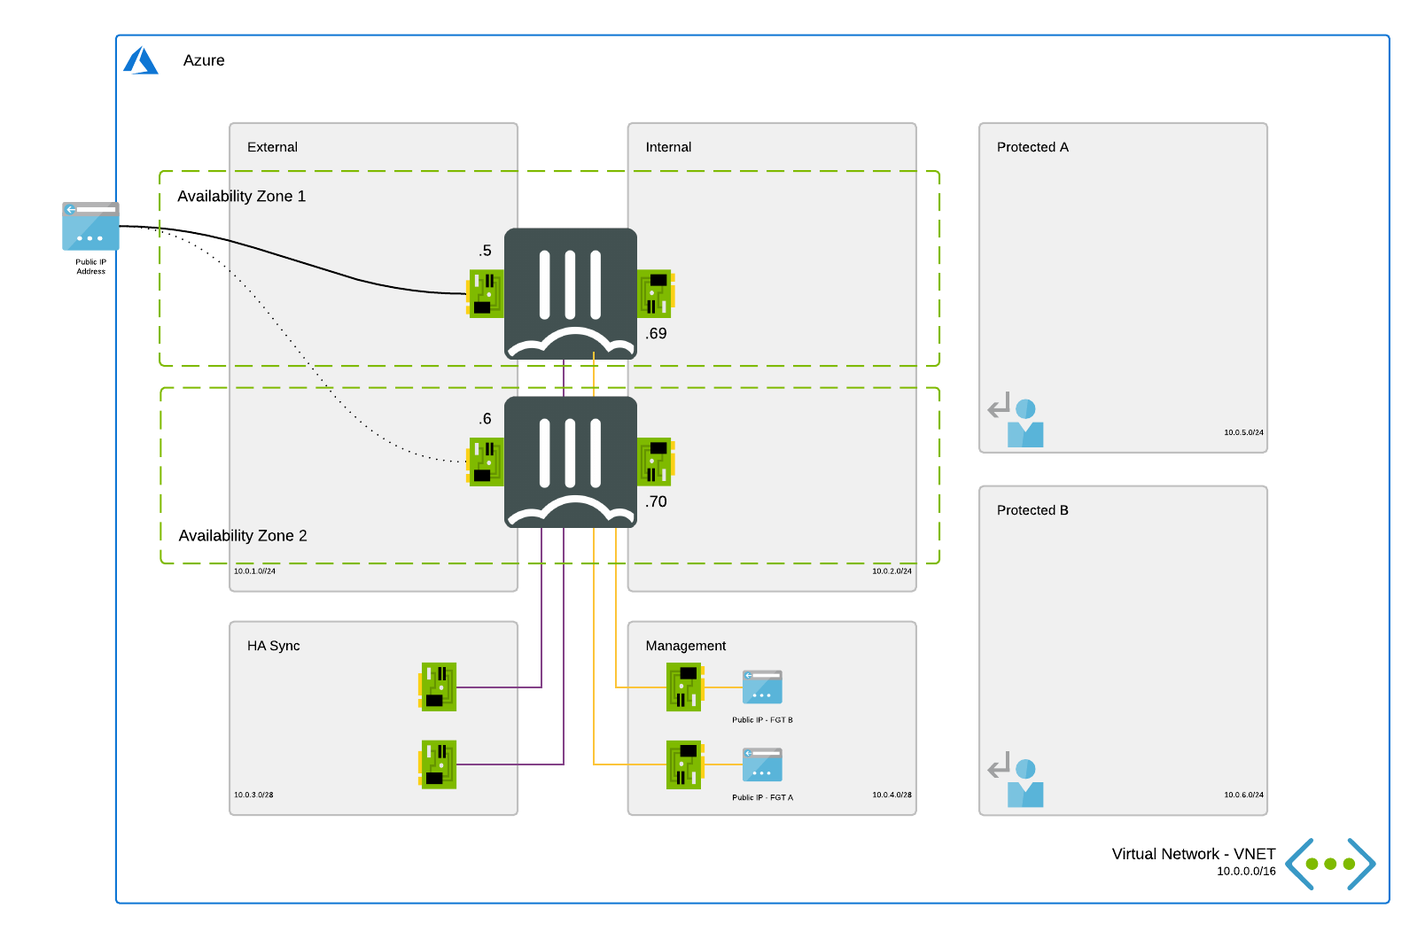
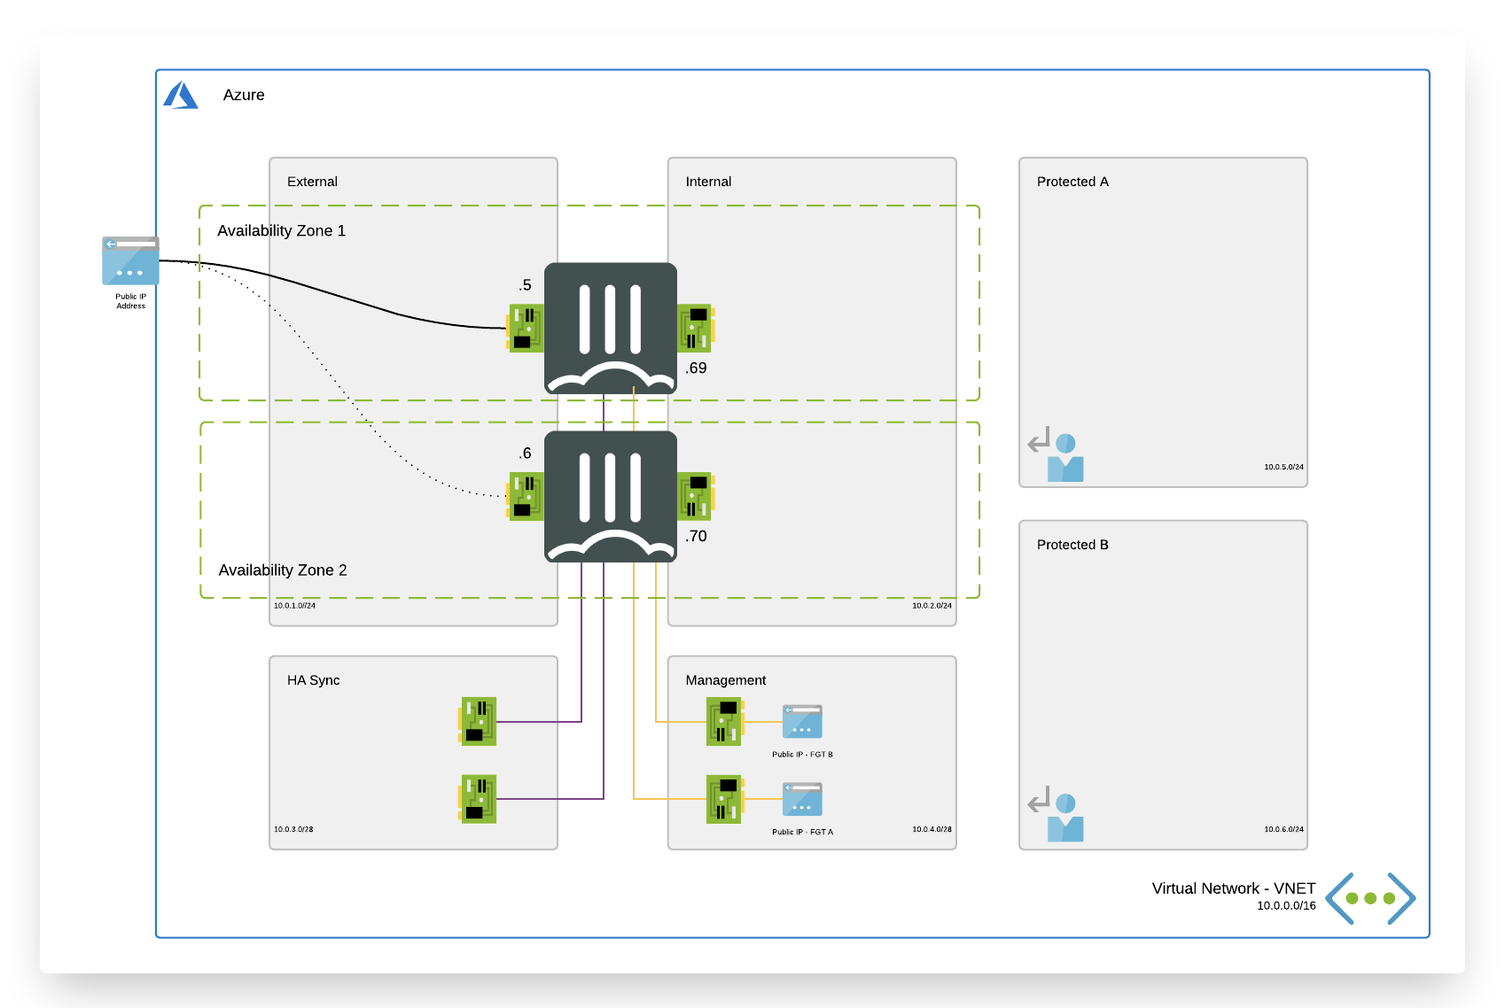
Update documentation and images Update one liner deployments statements Network diagrams remove transparent background Add information about password complexity Add information about accept terms Fixed minor wording in documentation

diff --git a/FortiGate/A-Single-VM/README.md b/FortiGate/A-Single-VM/README.md
@@ -41,7 +41,7 @@ For the deployment, you can use the Azure Portal, Azure CLI, Powershell or Azure
 ### Azure CLI
 To fast track the deployment, use the Azure Cloud Shell. The Azure Cloud Shell is an in-browser CLI that contains Terraform and other tools for deployment into Microsoft Azure. It is accessible via the Azure Portal or directly at [https://shell.azure.com/](https://shell.azure.com). You can copy and paste the below one-liner to get started with your deployment.
 
-`cd ~/clouddrive/ && wget -qO- https://github.com/fortinet/azure-templates/archive/main.zip | jar x && cd ~/clouddrive/azure-templates-main/FortiGate/A-Single-VM/ && ./deploy.sh`
+`cd ~/clouddrive/ && wget -qO- https://github.com/fortinet/azure-templates/archive/main.tar.gz | tar zxf - && cd ~/clouddrive/azure-templates-main/FortiGate/A-Single-VM/ && ./deploy.sh`
 
 ![Azure Cloud Shell](images/azure-cloud-shell.png)
 
@@ -49,14 +49,22 @@ After deployment, you will be shown the IP addresses of all deployed components.
 
 ## Requirements and limitations
 
-The Azure ARM template deployment deploys different resources and is required to have the access rights and quota in your Microsoft Azure subscription to deploy the resources.
-
-### Licenses
+The ARM template deploys different resources and it is required to have the access rights and quota in your Microsoft Azure subscription to deploy the resources.
 
 - The template will deploy Standard F2s VMs for this architecture. Other VM instances are supported as well with a minimum of 2 NICs. A list can be found [here](https://docs.fortinet.com/document/fortigate/6.4.0/azure-cookbook/562841/instance-type-support)
 - Licenses for Fortigate
-  - BYOL: A demo license can be made available via your Fortinet partner or on our website. These can be injected during deployment or added after deployment.
+  - BYOL: A demo license can be made available via your Fortinet partner or on our website. These can be injected during deployment or added after deployment. Purchased licenses need to be registered on the [Fortinet support site] (http://support.fortinet.com). Download the .lic file after registration. Note, these files may not work until 30 minutes after it's initial creation.
   - PAYG or OnDemand: These licenses are automatically generated during the deployment of the FortiGate systems.
+- The password provided during deployment must need password complexity rules from Microsoft Azure:
+  - It must be 12 characters or longer
+  - It needs to contain characters from at least 3 of the following groups: uppercase characters, lowercase characters, numbers, and special characters excluding '\' or '-'
+- The terms for the FortiGate PAYG or BYOL image in the Azure Marketplace needs to be accepted once before usage. This is done automatically during deployment via the Azure Portal. For the Azure CLI the commands below need to be run before the first deployment in a subscription.
+  - BYOL
+`az vm image accept-terms --publisher fortinet --offer fortinet_fortigate-vm_v5 --plan fortinet_fg-vm`
+  - PAYG
+`az vm image accept-terms --publisher fortinet --offer fortinet_fortigate-vm_v5 --plan fortinet_fg-vm_payg_20190624`
+
+The Azure ARM template deployment deploys different resources and is required to have the access rights and quota in your Microsoft Azure subscription to deploy the resources.
 
 ### Fabric Connector
 The FortiGate-VM uses [Managed Identities](https://docs.microsoft.com/en-us/azure/active-directory/managed-identities-azure-resources/) for the SDN Fabric Connector. A SDN Fabric Connector is created automatically during deployment. After deployment, it is required apply the 'Reader' role to the Azure Subscription you want to resolve Azure Resources from. More information can be found on the [Fortinet Documentation Libary](https://docs.fortinet.com/vm/azure/fortigate/6.4/azure-cookbook/6.4.0/236610/creating-a-fabric-connector-using-a-managed-identity).

diff --git a/FortiGate/Active-Active-ELB-ILB/README.md b/FortiGate/Active-Active-ELB-ILB/README.md
@@ -48,7 +48,7 @@ To deploy via Azure Cloud Shell you can connect via the Azure Portal or directly
 - Login into the Azure Cloud Shell
 - Run the following command in the Azure Cloud:
 
-`cd ~/clouddrive/ && wget -qO- https://github.com/fortinet/azure-templates/archive/main.zip | jar x && cd ~/clouddrive/azure-templates/FortiGate/Active-Active-ELB-ILB/ && ./deploy.sh`
+`cd ~/clouddrive/ && wget -qO- https://github.com/fortinet/azure-templates/archive/main.tar.gz | tar zxf - && cd ~/clouddrive/azure-templates/FortiGate/Active-Active-ELB-ILB/ && ./deploy.sh`
 
 - The script will ask you a few questions to bootstrap a full deployment.
 
@@ -58,14 +58,20 @@ After deployment you will be shown the IP address of all deployed components. Yo
 
 ## Requirements and limitations
 
-The Terraform template deployment deploys different resources and is required to have the access rights and quota in your Microsoft Azure subscription to deploy the resources.
+The ARM template deploys different resources and it is required to have the access rights and quota in your Microsoft Azure subscription to deploy the resources.
 
-### Licenses
-
-- The template will deploy Standard F4s VMs to deploy the required active/active setup. Other VM instances are supported as well with a minimum of 2 NICs. A list can be found [here](https://docs.fortinet.com/document/fortigate/6.4.0/azure-cookbook/562841/instance-type-support)
+- The template will deploy Standard F2s VMs for this architecture. Other VM instances are supported as well with a minimum of 2 NICs. A list can be found [here](https://docs.fortinet.com/document/fortigate/6.4.0/azure-cookbook/562841/instance-type-support)
 - Licenses for Fortigate
-  - BYOL: Demo license can be made available via your Fortinet partner or on our website. These can be injected during deployment or added after deployment.
+  - BYOL: A demo license can be made available via your Fortinet partner or on our website. These can be injected during deployment or added after deployment. Purchased licenses need to be registered on the [Fortinet support site] (http://support.fortinet.com). Download the .lic file after registration. Note, these files may not work until 30 minutes after it's initial creation.
   - PAYG or OnDemand: These licenses are automatically generated during the deployment of the FortiGate systems.
+- The password provided during deployment must need password complexity rules from Microsoft Azure:
+  - It must be 12 characters or longer
+  - It needs to contain characters from at least 3 of the following groups: uppercase characters, lowercase characters, numbers, and special characters excluding '\' or '-'
+- The terms for the FortiGate PAYG or BYOL image in the Azure Marketplace needs to be accepted once before usage. This is done automatically during deployment via the Azure Portal. For the Azure CLI the commands below need to be run before the first deployment in a subscription.
+  - BYOL:
+`az vm image accept-terms --publisher fortinet --offer fortinet_fortigate-vm_v5 --plan fortinet_fg-vm`
+  - PAYG:
+`az vm image accept-terms --publisher fortinet --offer fortinet_fortigate-vm_v5 --plan fortinet_fg-vm_payg_20190624`
 
 ### Fabric Connector
 The FortiGate-VM uses [Managed Identities](https://docs.microsoft.com/en-us/azure/active-directory/managed-identities-azure-resources/) for the SDN Fabric Connector. A SDN Fabric Connector is created automatically during deployment. After deployment, it is required apply the 'Reader' role to the Azure Subscription you want to resolve Azure Resources from. More information can be found on the [Fortinet Documentation Libary](https://docs.fortinet.com/vm/azure/fortigate/6.4/azure-cookbook/6.4.0/236610/creating-a-fabric-connector-using-a-managed-identity).

diff --git a/FortiGate/Active-Passive-SDN/README.md b/FortiGate/Active-Passive-SDN/README.md
@@ -46,7 +46,7 @@ To deploy via Azure Cloud Shell you can connect via the Azure Portal or directly
 - Login into the Azure Cloud Shell
 - Run the following command in the Azure Cloud:
 
-`cd ~/clouddrive/ && wget -qO- https://github.com/fortinet/azure-templates/archive/main.zip | jar x && cd ~/clouddrive/azure-templates-main/FortiGate/Active-Passive-SDN/ && ./deploy.sh`
+`cd ~/clouddrive/ && wget -qO- https://github.com/fortinet/azure-templates/archive/main.tar.gz | tar zxf - && cd ~/clouddrive/azure-templates-main/FortiGate/Active-Passive-SDN/ && ./deploy.sh`
 
 - The script will ask you a few questions to bootstrap a full deployment.
 
@@ -56,12 +56,20 @@ After deployment you will be shown the IP address of all deployed components. Bo
 
 # Requirements and limitations
 
-The ARM template deploy different resource and it is required to have the access rights and quota in your Microsoft Azure subscription to deploy the resources.
+The ARM template deploys different resources and it is required to have the access rights and quota in your Microsoft Azure subscription to deploy the resources.
 
-- The template will deploy Standard F4s VMs for this architecture. Other VM instances are supported as well with a minimum of 2 NICs. A list can be found [here](https://docs.fortinet.com/document/fortigate/6.2.0/azure-cookbook/562841/instance-type-support)
+- The template will deploy Standard F4s VMs for this architecture. Other VM instances are supported as well with a minimum of 4 NICs. A list can be found [here](https://docs.fortinet.com/document/fortigate/6.4.0/azure-cookbook/562841/instance-type-support)
 - Licenses for Fortigate
   - BYOL: A demo license can be made available via your Fortinet partner or on our website. These can be injected during deployment or added after deployment. Purchased licenses need to be registered on the [Fortinet support site] (http://support.fortinet.com). Download the .lic file after registration. Note, these files may not work until 30 minutes after it's initial creation.
   - PAYG or OnDemand: These licenses are automatically generated during the deployment of the FortiGate systems.
+- The password provided during deployment must need password complexity rules from Microsoft Azure:
+  - It must be 12 characters or longer
+  - It needs to contain characters from at least 3 of the following groups: uppercase characters, lowercase characters, numbers, and special characters excluding '\' or '-'
+- The terms for the FortiGate PAYG or BYOL image in the Azure Marketplace needs to be accepted once before usage. This is done automatically during deployment via the Azure Portal. For the Azure CLI the commands below need to be run before the first deployment in a subscription.
+  - BYOL
+`az vm image accept-terms --publisher fortinet --offer fortinet_fortigate-vm_v5 --plan fortinet_fg-vm`
+  - PAYG
+`az vm image accept-terms --publisher fortinet --offer fortinet_fortigate-vm_v5 --plan fortinet_fg-vm_payg_20190624`
 
 ## Fabric Connector
 

diff --git a/FortiGate/Active-Passive-ELB-ILB/README.md b/FortiGate/Active-Passive-ELB-ILB/README.md
@@ -55,7 +55,7 @@ To deploy via Azure Cloud Shell you can connect via the Azure Portal or directly
 - Login into the Azure Cloud Shell
 - Run the following command in the Azure Cloud:
 
-`cd ~/clouddrive/ && wget -qO- https://github.com/fortinet/azure-templates/archive/main.zip | jar x && cd ~/clouddrive/azure-templates-main/FortiGate/Active-Passive-ELB-ILB/ && ./deploy.sh`
+`cd ~/clouddrive/ && wget -qO- https://github.com/fortinet/azure-templates/archive/main.tar.gz | tar zxf - && cd ~/clouddrive/azure-templates-main/FortiGate/Active-Passive-ELB-ILB/ && ./deploy.sh`
 
 - The script will ask you a few questions to bootstrap a full deployment.
 
@@ -65,12 +65,20 @@ After deployment you will be shown the IP address of all deployed components. Bo
 
 # Requirements and limitations
 
-The ARM template deploy different resource and it is required to have the access rights and quota in your Microsoft Azure subscription to deploy the resources.
+The ARM template deploys different resources and it is required to have the access rights and quota in your Microsoft Azure subscription to deploy the resources.
 
 - The template will deploy Standard F4s VMs for this architecture. Other VM instances are supported as well with a minimum of 4 NICs. A list can be found [here](https://docs.fortinet.com/document/fortigate/6.4.0/azure-cookbook/562841/instance-type-support)
 - Licenses for Fortigate
   - BYOL: A demo license can be made available via your Fortinet partner or on our website. These can be injected during deployment or added after deployment. Purchased licenses need to be registered on the [Fortinet support site] (http://support.fortinet.com). Download the .lic file after registration. Note, these files may not work until 30 minutes after it's initial creation.
   - PAYG or OnDemand: These licenses are automatically generated during the deployment of the FortiGate systems.
+- The password provided during deployment must need password complexity rules from Microsoft Azure:
+  - It must be 12 characters or longer
+  - It needs to contain characters from at least 3 of the following groups: uppercase characters, lowercase characters, numbers, and special characters excluding '\' or '-'
+- The terms for the FortiGate PAYG or BYOL image in the Azure Marketplace needs to be accepted once before usage. This is done automatically during deployment via the Azure Portal. For the Azure CLI the commands below need to be run before the first deployment in a subscription.
+  - BYOL
+`az vm image accept-terms --publisher fortinet --offer fortinet_fortigate-vm_v5 --plan fortinet_fg-vm`
+  - PAYG
+`az vm image accept-terms --publisher fortinet --offer fortinet_fortigate-vm_v5 --plan fortinet_fg-vm_payg_20190624`
 
 ## Fabric Connector
 

diff --git a/FortiGate/Terraform/VNET-Peering/README.md b/FortiGate/Terraform/VNET-Peering/README.md
@@ -35,7 +35,7 @@ For the deployment Terraform is required. This multi-cloud deployment tool can b
 
 For Microsoft Azure there is a fast track option by using the Azure Cloud Shell. The Azure Cloud Shell is an in-browser CLI that contains Terraform and other tools for deployment into Microsoft Azure. It is accessible via the Azure Portal or directly via [https://shell.azure.com/](https://shell.azure.com). You can copy and past the below one-liner to get start with your deployment.
 
-`cd ~/clouddrive/ && wget -qO- https://github.com/fortinet/azure-templates/archive/master.zip | jar x && cd ~/clouddrive/azure-templates-master/FortiGate/Terraform/VNET-Peering/ && ./deploy.sh`
+`cd ~/clouddrive/ && wget -qO- https://github.com/fortinet/azure-templates/archive/main.tar.gz | tar zxf - && cd ~/clouddrive/azure-templates-master/FortiGate/Terraform/VNET-Peering/ && ./deploy.sh`
 
 ![Azure Cloud Shell](images/azure-cloud-shell.png)
 
@@ -45,14 +45,7 @@ After deployment you will be shown the IP address of all deployed components, th
 
 ## Requirements and limitations
 
-The Terrafom template deploys different resources and is required to have the access rights and quota in your Microsoft Azure subscription to deploy the resources.
-
-### Licenses
-
-- The template will deploy Standard F4s VMs for this architecture. Other VM instances are supported as well with a minimum of 2 NICs. A list can be found [here](https://docs.fortinet.com/document/fortigate/6.2.0/azure-cookbook/562841/instance-type-support)
-- Licenses for Fortigate
-  - BYOL: A demo license can be made available via your Fortinet partner or on our website. These can be injected during deployment or added after deployment.
-  - PAYG or OnDemand: These licenses are automatically generated during the deployment of the FortiGate systems.
+This architecture uses the Active/Passive building block. More information about configuration can be found [here](../../Active-Passive-ELB-ILB/README.md).
 
 ### Fabric Connector
 The FortiGate-VM uses [Managed Identities](https://docs.microsoft.com/en-us/azure/active-directory/managed-identities-azure-resources/) for the SDN Fabric Connector. A SDN Fabric Connector is created automatically during deployment. After deployment, it is required apply the 'Reader' role to Azure Subscription you want the FortiGate-VM(s) to resolve Azure Resources from. More information can be found on the [Fortinet Documentation Libary](https://docs.fortinet.com/vm/azure/fortigate/6.2/azure-cookbook/6.2.0/236610/creating-a-fabric-connector-using-a-managed-identity).

diff --git a/FortiGate/VNET-Peering/README.md b/FortiGate/VNET-Peering/README.md
@@ -44,20 +44,13 @@ For the deployment, you can use the Azure Portal, Azure CLI, Powershell or Azure
 ### Azure CLI
 To fast track the deployment, use the Azure Cloud Shell. The Azure Cloud Shell is an in-browser CLI that contains Terraform and other tools for deployment into Microsoft Azure. It is accessible via the Azure Portal or directly at [https://shell.azure.com/](https://shell.azure.com). You can copy and paste the below one-liner to get started with your deployment.
 
-`cd ~/clouddrive/ && wget -qO- https://github.com/fortinet/azure-templates/archive/main.zip | jar x && cd ~/clouddrive/azure-templates-main/FortiGate/VNET-Peering/ && ./deploy.sh`
+`cd ~/clouddrive/ && wget -qO- https://github.com/fortinet/azure-templates/archive/main.tar.gz | tar zxf - && cd ~/clouddrive/azure-templates-main/FortiGate/VNET-Peering/ && ./deploy.sh`
 
 ![Azure Cloud Shell](images/azure-cloud-shell.png)
 
 After deployment, you will be shown the IP addresses of all deployed components. This information is also stored in the output directory in the 'summary.out' file. You can access both management GUI's using the public management IP addresses using HTTPS on port 443.
 
 ## Requirements and limitations
-
-The ARM template deploys different resources and it is required to have the access rights and quota in your Microsoft Azure subscription to deploy the resources.
-
-- The template will deploy Standard F4s VMs for this architecture. Other VM instances are supported as well with a minimum of 2 NICs. A list can be found [here](https://docs.fortinet.com/document/fortigate/6.2.0/azure-cookbook/562841/instance-type-support)
-- Licenses for Fortigate
-  - BYOL: A demo license can be made available via your Fortinet partner or on our website. These can be injected during deployment or added after deployment.
-  - PAYG or OnDemand: These licenses are automatically generated during the deployment of the FortiGate systems.
 
 This architecture uses the Active/Passive building block. More information about configuration can be found [here](../Active-Passive-ELB-ILB/README.md).
 

diff --git a/FortiGate/AvailabilityZones/Terraform/Active-Passive-ELB-ILB-AZ/README.md b/FortiGate/AvailabilityZones/Terraform/Active-Passive-ELB-ILB-AZ/README.md
@@ -36,7 +36,7 @@ For the deployment Terraform is required. This multi-cloud deployment tool can b
 
 For Microsoft Azure there is a fast track option by using the Azure Cloud Shell. The Azure Cloud Shell is an in-browser CLI that contains Terraform and other tools for deployment into Microsoft Azure. Azure Cloud Shell is accessible via the Azure Portal or directly via [https://shell.azure.com/](https://shell.azure.com). You can copy and past the below one-liner to get start with your deployment.
 
-`cd ~/clouddrive/ && wget -qO- https://github.com/fortinet/azure-templates/archive/master.zip | jar x && cd ~/clouddrive/azure-templates-master/FortiGate/Terraform/Active-Passive-ELB-ILB/ && ./deploy.sh`
+`cd ~/clouddrive/ && wget -qO- https://github.com/fortinet/azure-templates/archive/main.tar.gz | tar zxf - && cd ~/clouddrive/azure-templates-master/FortiGate/Terraform/Active-Passive-ELB-ILB/ && ./deploy.sh`
 
 ![Azure Cloud Shell](images/azure-cloud-shell.png)
 

diff --git a/FortiGate/Terraform/Active-Passive-ELB-ILB/README.md b/FortiGate/Terraform/Active-Passive-ELB-ILB/README.md
@@ -34,7 +34,7 @@ For the deployment Terraform is required. This multi-cloud deployment tool can b
 
 For Microsoft Azure there is a fast track option by using the Azure Cloud Shell. The Azure Cloud Shell is an in-browser CLI that contains Terraform and other tools for deployment into Microsoft Azure. Azure Cloud Shell is accessible via the Azure Portal or directly via [https://shell.azure.com/](https://shell.azure.com). You can copy and past the below one-liner to get start with your deployment.
 
-`cd ~/clouddrive/ && wget -qO- https://github.com/fortinet/azure-templates/archive/master.zip | jar x && cd ~/clouddrive/azure-templates-master/FortiGate/Terraform/Active-Passive-ELB-ILB/ && ./deploy.sh`
+`cd ~/clouddrive/ && wget -qO- https://github.com/fortinet/azure-templates/archive/main.tar.gz | tar zxf - && cd ~/clouddrive/azure-templates-master/FortiGate/Terraform/Active-Passive-ELB-ILB/ && ./deploy.sh`
 
 ![Azure Cloud Shell](images/azure-cloud-shell.png)
 

diff --git a/FortiAnalyzer/Terraform/single-1nic/README.md b/FortiAnalyzer/Terraform/single-1nic/README.md
@@ -34,7 +34,7 @@ For the deployment Terraform is required. This multi-cloud deployment tool can b
 
 For Microsoft Azure there is a fast track option by using the Azure Cloud Shell. The Azure Cloud Shell is an in-browser CLI that contains Terraform and other tools for deployment into Microsoft Azure. Azure Cloud Shell is accessible via the Azure Portal or directly via [https://shell.azure.com/](https://shell.azure.com). You can copy and past the below one-liner to get start with your deployment.
 
-`cd ~/clouddrive/ && wget -qO- https://github.com/fortinet/azure-templates/archive/master.zip | jar x && cd ~/clouddrive/azure-templates-master/FortiGate/Terraform/Active-Active-ELB-ILB/ && ./deploy.sh`
+`cd ~/clouddrive/ && wget -qO- https://github.com/fortinet/azure-templates/archive/main.tar.gz | tar zxf - && cd ~/clouddrive/azure-templates-master/FortiGate/Terraform/Active-Active-ELB-ILB/ && ./deploy.sh`
 
 ![Azure Cloud Shell](images/azure-cloud-shell.png)
 

diff --git a/FortiGate/AvailabilityZones/Terraform/Active-Active-ELB-ILB-AZ/README.md b/FortiGate/AvailabilityZones/Terraform/Active-Active-ELB-ILB-AZ/README.md
@@ -34,7 +34,7 @@ For the deployment Terraform is required. This multi-cloud deployment tool can b
 
 For Microsoft Azure there is a fast track option by using the Azure Cloud Shell. The Azure Cloud Shell is an in-browser CLI that contains Terraform and other tools for deployment into Microsoft Azure. Azure Cloud Shell is accessible via the Azure Portal or directly via [https://shell.azure.com/](https://shell.azure.com). You can copy and past the below one-liner to get start with your deployment.
 
-`cd ~/clouddrive/ && wget -qO- https://github.com/fortinet/azure-templates/archive/master.zip | jar x && cd ~/clouddrive/azure-templates-master/FortiGate/Terraform/Active-Active-ELB-ILB/ && ./deploy.sh`
+`cd ~/clouddrive/ && wget -qO- https://github.com/fortinet/azure-templates/archive/main.tar.gz | tar zxf - && cd ~/clouddrive/azure-templates-master/FortiGate/Terraform/Active-Active-ELB-ILB/ && ./deploy.sh`
 
 ![Azure Cloud Shell](images/azure-cloud-shell.png)
 

diff --git a/FortiGate/Terraform/Active-Active-ELB-ILB/README.md b/FortiGate/Terraform/Active-Active-ELB-ILB/README.md
@@ -34,7 +34,7 @@ For the deployment Terraform is required. This multi-cloud deployment tool can b
 
 For Microsoft Azure there is a fast track option by using the Azure Cloud Shell. The Azure Cloud Shell is an in-browser CLI that contains Terraform and other tools for deployment into Microsoft Azure. Azure Cloud Shell is accessible via the Azure Portal or directly via [https://shell.azure.com/](https://shell.azure.com). You can copy and past the below one-liner to get start with your deployment.
 
-`cd ~/clouddrive/ && wget -qO- https://github.com/fortinet/azure-templates/archive/master.zip | jar x && cd ~/clouddrive/azure-templates-master/FortiGate/Terraform/Active-Active-ELB-ILB/ && ./deploy.sh`
+`cd ~/clouddrive/ && wget -qO- https://github.com/fortinet/azure-templates/archive/main.tar.gz | tar zxf - && cd ~/clouddrive/azure-templates-master/FortiGate/Terraform/Active-Active-ELB-ILB/ && ./deploy.sh`
 
 ![Azure Cloud Shell](images/azure-cloud-shell.png)
 

diff --git a/FortiManager/Terraform/single-1nic/README.md b/FortiManager/Terraform/single-1nic/README.md
@@ -34,7 +34,7 @@ For the deployment Terraform is required. This multi-cloud deployment tool can b
 
 For Microsoft Azure there is a fast track option by using the Azure Cloud Shell. The Azure Cloud Shell is an in-browser CLI that contains Terraform and other tools for deployment into Microsoft Azure. Azure Cloud Shell is accessible via the Azure Portal or directly via [https://shell.azure.com/](https://shell.azure.com). You can copy and past the below one-liner to get start with your deployment.
 
-`cd ~/clouddrive/ && wget -qO- https://github.com/fortinet/azure-templates/archive/master.zip | jar x && cd ~/clouddrive/azure-templates-master/FortiGate/Terraform/Active-Active-ELB-ILB/ && ./deploy.sh`
+`cd ~/clouddrive/ && wget -qO- https://github.com/fortinet/azure-templates/archive/main.tar.gz | tar zxf - && cd ~/clouddrive/azure-templates-master/FortiGate/Terraform/Active-Active-ELB-ILB/ && ./deploy.sh`
 
 ![Azure Cloud Shell](images/azure-cloud-shell.png)
 
